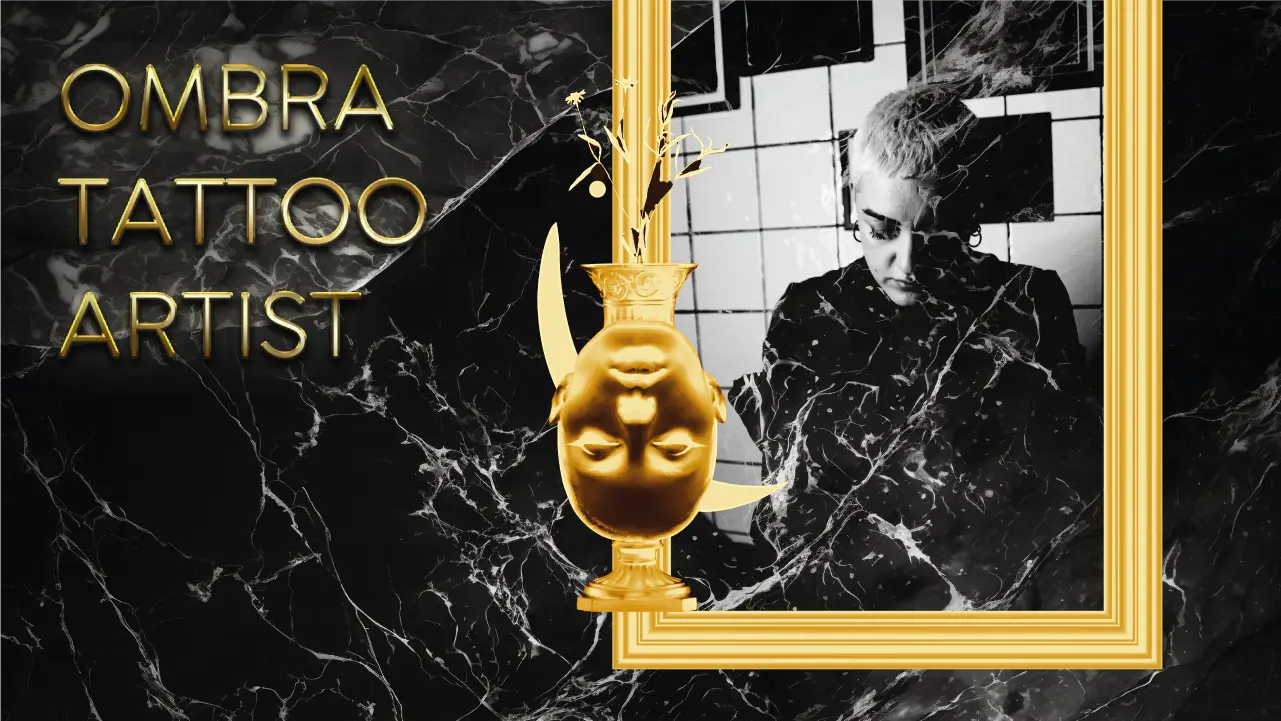
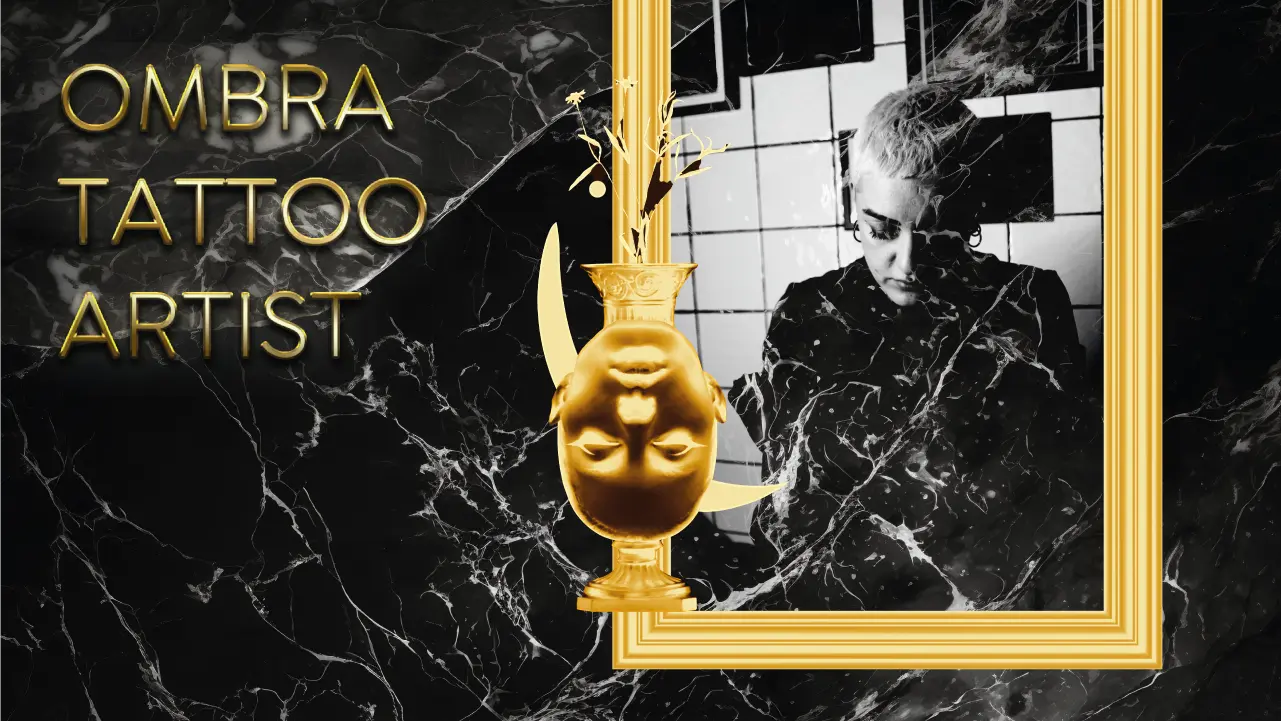
up

diff --git a/assets/mobirise/css/mbr-additional.css b/assets/mobirise/css/mbr-additional.css
@@ -1251,15 +1251,15 @@ a {
 }
 
 .cid-sYsm6ZTLsK1 {
-  background-image: url("../../../assets/images/1.webp");
+  background-image: url("../../../assets/images/1.png");
 }
 
 .cid-sYsm6ZTLsK2 {
-  background-image: url("../../../assets/images/2.webp");
+  background-image: url("../../../assets/images/2.png");
 }
 
 .cid-sYsm6ZTLsK3 {
-  background-image: url("../../../assets/images/3.webp");
+  background-image: url("../../../assets/images/3.png");
 }
 
 @media (max-width: 991px) {
